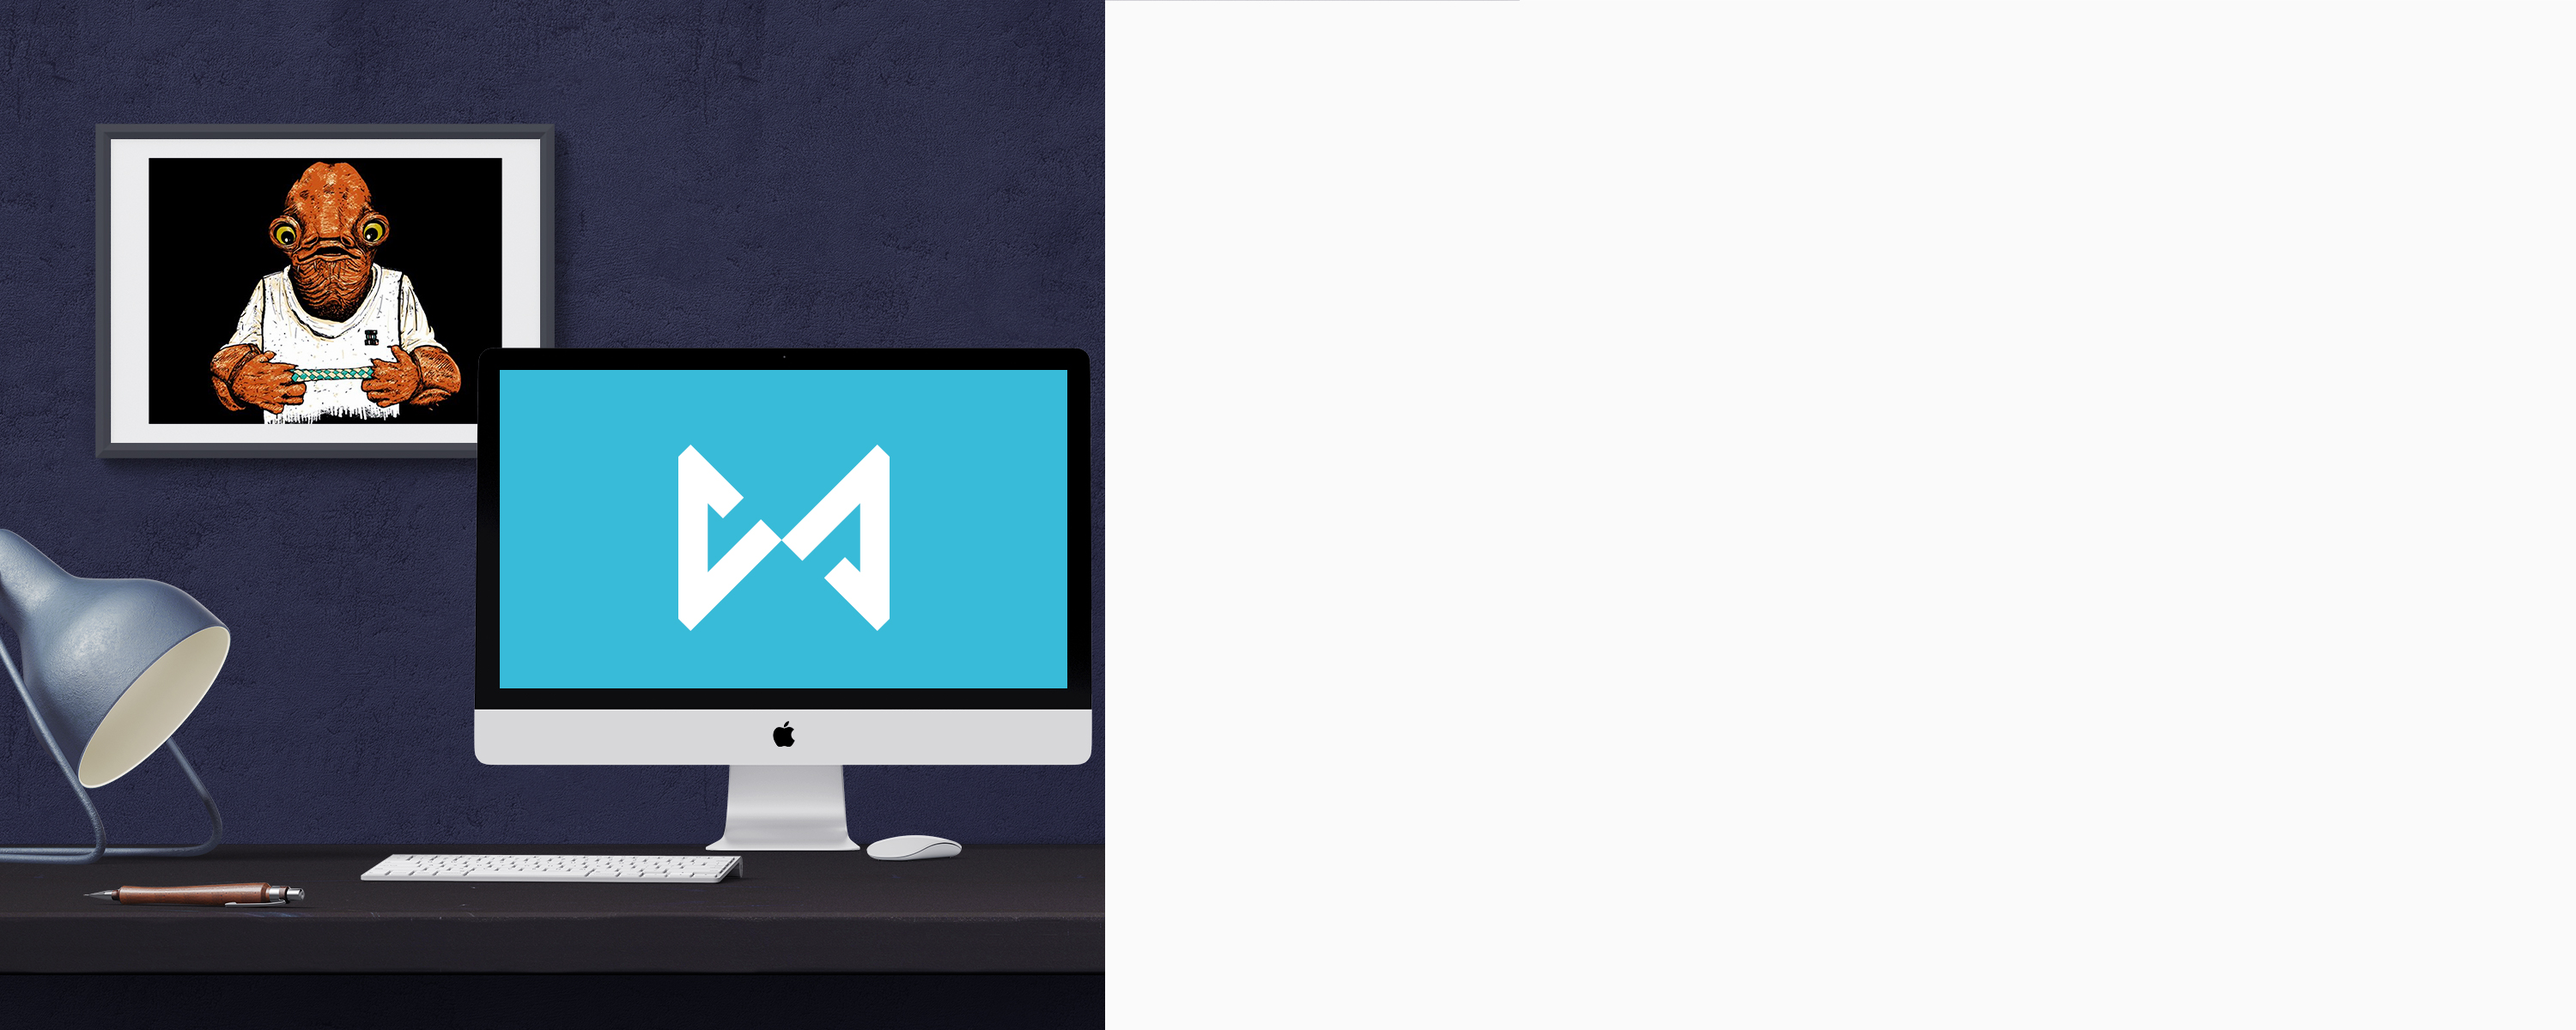
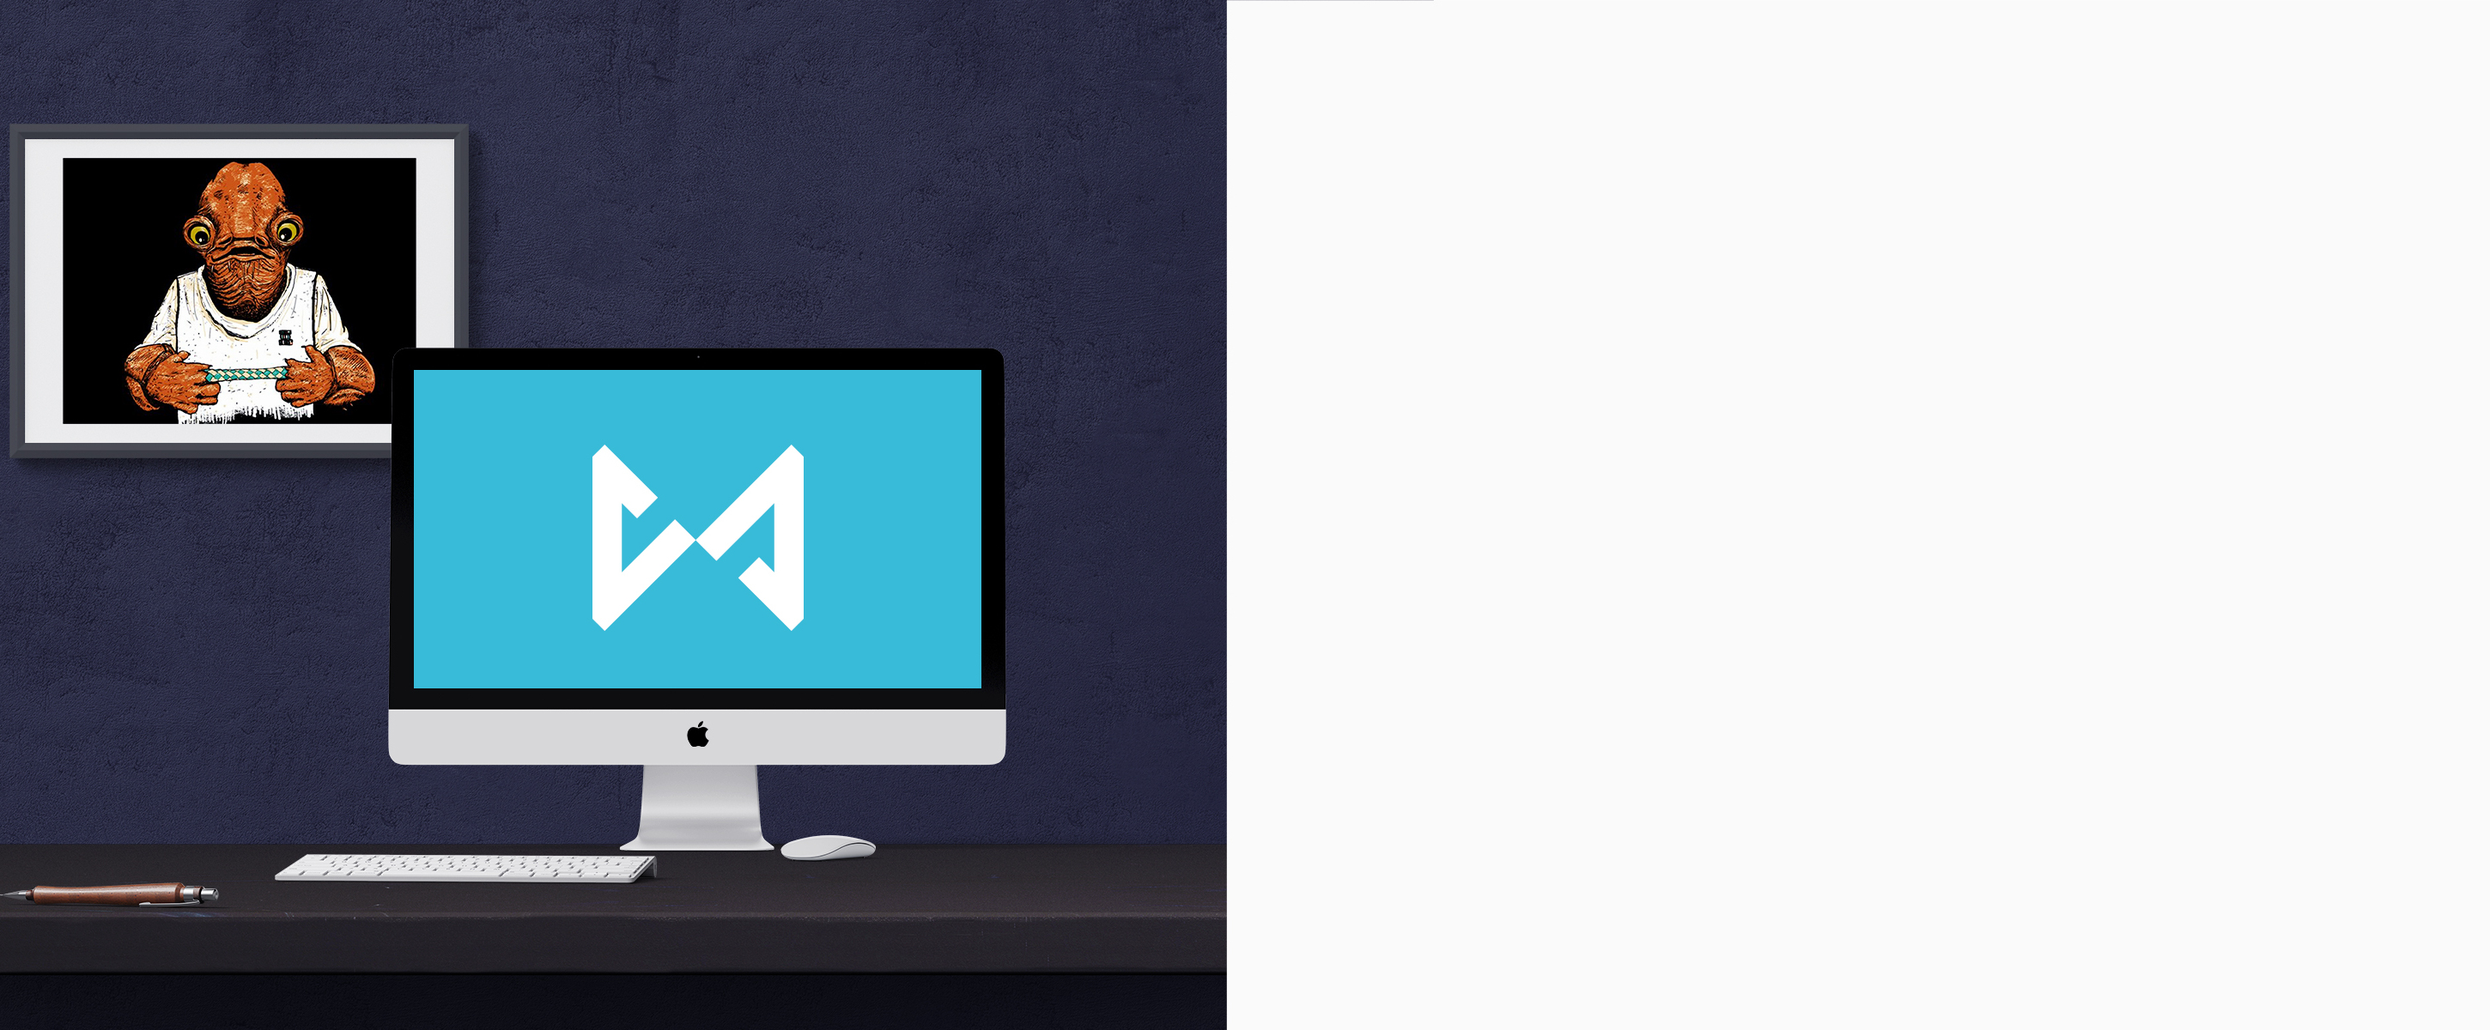
styling

diff --git a/source/components/weAre.react.js b/source/components/weAre.react.js
@@ -64,10 +64,10 @@ const weAre = (containerWidth) => (
   <div>
   <Row style={{marginTop:"0px"}}>
   <div style={textStyle}>
-    <Parallax  bgImage="img/desk.jpg" strength={300} bgStyle={{paddingTop:"20px"}}>
+    <Parallax  bgImage="img/desk.jpg" strength={300} bgHeight="650px" bgWidth="auto">
       <Col  md={6} smHidden xsHidden  className="pull-left" style={screenStyle}>
-        <img src="img/pieFilter.png" style={{height:"auto",  minHeight:"90%", width:"100%"}}/>
-        <div style={{height:"100px", width:"100%", backgroundColor:"#FAFAFA"}}><br /><br /></div>
+        <img src="img/pieFilter.png" style={{height:"auto",  minHeight:"90%", maxHeight:"800px", width:"100%"}}/>
+        <div style={{height:"125px", width:"100%", backgroundColor:"#FAFAFA"}}><br /><br /></div>
 
       </Col>
 
